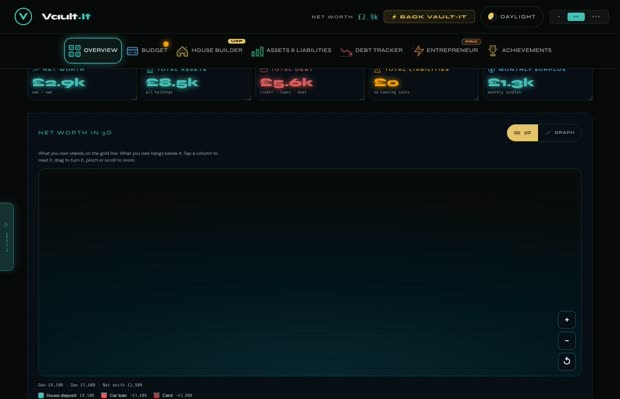
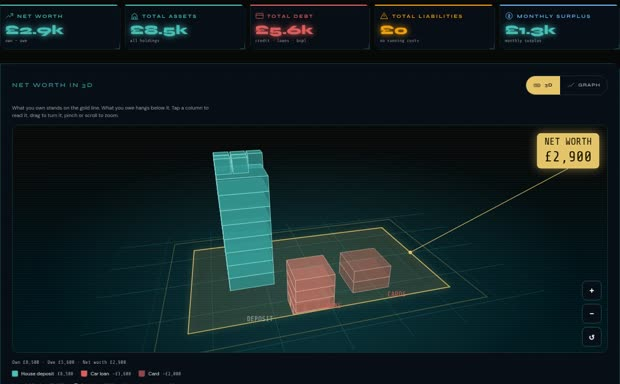
Queue: sign-up steps done (cda009e); 3D net worth first draw started
Claude-Session: https://claude.ai/code/session_01KoffvxK72zopaHpCU8QbNX

diff --git a/landing.html b/landing.html
@@ -213,6 +213,14 @@ section .lead{color:var(--muted);max-width:56ch;margin-bottom:26px}
 .num{display:inline-grid;place-items:center;width:34px;height:34px;border-radius:50%;border:1.5px solid var(--gold);color:var(--gold);font-family:var(--font-mono);font-size:15px;margin-bottom:12px;background:var(--pillbg)}
 .shot{margin:16px 0 0;border:1px solid var(--line2);border-radius:var(--r-tile);overflow:hidden;background:var(--stage-bg)}
 .shot img{display:block;width:100%;height:auto}
+/* "How it works" steps: a small real screen each (owner, 31 Oct); step 2 carries the brand icons, pulsing gently */
+.step-img{position:relative}
+.step-icons{position:absolute;left:8px;right:8px;bottom:10px;display:flex;justify-content:center;gap:10px;pointer-events:none}
+.step-icons .si{width:38px;height:38px;display:grid;place-items:center;border-radius:10px;color:var(--c);background:rgb(5 16 27 / .78);border:1px solid color-mix(in srgb,var(--c) 55%,transparent);box-shadow:0 0 0 0 color-mix(in srgb,var(--c) 45%,transparent);animation:siPulse 2.4s ease-in-out var(--d) infinite}
+.step-icons svg{width:22px;height:22px}
+.step-cap{font-family:var(--font-mono);font-size:11px;letter-spacing:.08em;color:var(--muted);text-align:center;padding:8px 6px;border-top:1px solid var(--line2)}
+@keyframes siPulse{0%,100%{transform:scale(1);box-shadow:0 0 0 0 color-mix(in srgb,var(--c) 40%,transparent)}50%{transform:scale(1.08);box-shadow:0 0 0 6px color-mix(in srgb,var(--c) 0%,transparent)}}
+@media (prefers-reduced-motion:reduce){.step-icons .si{animation:none!important}}
 ul.ticks{list-style:none;padding:0;margin:0;display:grid;gap:10px}
 ul.ticks li{padding-left:28px;position:relative;color:var(--muted)}
 ul.ticks li strong{color:var(--text)}
@@ -236,6 +244,7 @@ footer .links{display:flex;flex-wrap:wrap;gap:16px;margin-top:10px}
 </style>
 </head>
 <body>
+<svg width="0" height="0" style="position:absolute" aria-hidden="true" focusable="false"><symbol id="vi-net-worth" viewBox="0 0 24 24"><g fill="none" stroke="currentColor" stroke-width="1.1" stroke-linecap="round" stroke-linejoin="round" style="stroke-width:var(--vi-sw,1.1)"><path d='M3 17 9 11l4 4 8-9'/><path d='M15 6h6v6'/></g><g fill="none" stroke="currentColor" stroke-width=".7" stroke-linecap="round" stroke-linejoin="round" opacity=".6" style="stroke-width:calc(var(--vi-sw,1.1) * .64)"><path d="M3 21h18" stroke-dasharray="1 2.2"/><circle cx="9" cy="11" r=".9"/><circle cx="13" cy="15" r=".9"/></g></symbol><symbol id="vi-budget" viewBox="0 0 24 24"><g fill="currentColor" fill-opacity=".16" stroke="none"><g transform='scale(1.5)'><rect x='1.5' y='3.5' width='13' height='9.5' rx='1.6'/></g></g><g fill="none" stroke="currentColor" stroke-width="1.1" stroke-linecap="round" stroke-linejoin="round" style="stroke-width:var(--vi-sw,1.1)"><g transform='scale(1.5)' style='stroke-width:calc(var(--vi-sw,1.1) / 1.5)'><rect x='1.5' y='3.5' width='13' height='9.5' rx='1.6'/><path d='M1.5 6.5h13'/><path d='M10.6 9.8h1.9'/></g></g><g fill="none" stroke="currentColor" stroke-width=".7" stroke-linecap="round" stroke-linejoin="round" opacity=".6" style="stroke-width:calc(var(--vi-sw,1.1) * .64)"><path d="M4 14.5h5M4 16.8h3"/><circle cx="18.2" cy="14.7" r=".9"/></g></symbol><symbol id="vi-debt-tracker" viewBox="0 0 24 24"><g fill="none" stroke="currentColor" stroke-width="1.1" stroke-linecap="round" stroke-linejoin="round" style="stroke-width:var(--vi-sw,1.1)"><g transform='scale(1.5)' style='stroke-width:calc(var(--vi-sw,1.1) / 1.5)'><polyline points='1,4.5 5,9.5 9,7 15,13'/><polyline points='11.5,13 15,13 15,9.5'/></g></g><g fill="none" stroke="currentColor" stroke-width=".7" stroke-linecap="round" stroke-linejoin="round" opacity=".6" style="stroke-width:calc(var(--vi-sw,1.1) * .64)"><path d="M1.5 22.5h21"/><path d="M1.5 12h21" stroke-dasharray="1 2.2"/></g></symbol><symbol id="vi-trend-base" viewBox="0 0 24 24"><g fill="currentColor" fill-opacity=".16" stroke="none"><path d='M4 16l5-5 4 3 7-8v14.5H4z'/></g><g fill="none" stroke="currentColor" stroke-width="1.1" stroke-linecap="round" stroke-linejoin="round" style="stroke-width:var(--vi-sw,1.1)"><path d='M3 20.5h18'/><path d='M4 16l5-5 4 3 7-8'/><path d='M15 6h5v5'/></g></symbol></svg>
 <a class="skip" href="#join">Skip to the sign-up form</a>
 <header class="hdr"><div class="wrap">
   <a class="lockup" href="./" aria-label="Vault-It, top of page">
@@ -323,10 +332,19 @@ footer .links{display:flex;flex-wrap:wrap;gap:16px;margin-top:10px}
   <h2>How it works</h2>
   <p class="lead">Set up in a few minutes. Real screens from the app, shown with sample figures.</p>
   <div class="grid g3">
-    <div class="card"><div class="num">1</div><h3>Add your numbers</h3><p>Income, spending, debts, savings and what you own. You type them in, so nothing is connected to your bank.</p></div>
-    <div class="card"><div class="num">2</div><h3>See the whole picture</h3><p>Net worth over time, where every pound of income goes, a debt payoff plan (snowball or avalanche) and the next step on your roadmap.</p></div>
+    <div class="card"><div class="num">1</div><h3>Add your numbers</h3><p>Income, spending, debts, savings and what you own. You type them in, so nothing is connected to your bank.</p>
+      <figure class="shot step-shot"><img src="img/step-1-numbers.jpg" width="620" height="399" alt="The Budget tab: income and spending lines sorted into committed, variable, savings and investment groups" loading="lazy" /></figure></div>
+    <div class="card"><div class="num">2</div><h3>See the whole picture</h3><p>Net worth over time, where every pound of income goes, a debt payoff plan (snowball or avalanche) and the next step on your roadmap.</p>
+      <figure class="shot step-shot step-2"><div class="step-img"><img src="img/step-2-picture.jpg" width="620" height="384" alt="The Overview: net worth, assets, debt, liabilities and monthly surplus, above the net worth in 3D scene" loading="lazy" />
+        <div class="step-icons" aria-hidden="true">
+          <span class="si" style="--c:var(--gold);--d:0s"><svg viewBox="0 0 24 24"><use href="#vi-net-worth"/></svg></span>
+          <span class="si" style="--c:var(--teal);--d:.6s"><svg viewBox="0 0 24 24"><use href="#vi-budget"/></svg></span>
+          <span class="si" style="--c:var(--red);--d:1.2s"><svg viewBox="0 0 24 24"><use href="#vi-debt-tracker"/></svg></span>
+          <span class="si" style="--c:var(--green);--d:1.8s"><svg viewBox="0 0 24 24"><use href="#vi-trend-base"/></svg></span>
+        </div></div>
+        <figcaption class="step-cap">Net worth · Budget · Debt plan · Roadmap</figcaption></figure></div>
     <div class="card"><div class="num">3</div><h3>Build the house</h3><p>Pick a house and a deposit target. It rises as you save, and fills in as you pay the mortgage down.</p>
-      <figure class="shot"><img src="img/house-built.jpg" width="620" height="540" alt="The finished 3D Victorian terraced house in the Vault-It house builder" loading="lazy" /></figure></div>
+      <figure class="shot step-shot"><img src="img/step-3-house.jpg" width="620" height="412" alt="The House Builder: a Victorian terrace part-built in teal bricks, with the row being laid marked in gold" loading="lazy" /></figure></div>
   </div>
 </div></section>
 

diff --git a/tests/test_site.js b/tests/test_site.js
@@ -8,7 +8,7 @@ const ROOT = path.join(__dirname, '..'), DIST = fs.mkdtempSync(path.join(require
   cp.execFileSync('node', [path.join(ROOT, 'tools', 'build_site.js')], { env: { ...process.env, WORKERS_CI_COMMIT_SHA: 'abc123', SITE_OUT: DIST }, stdio: ['ignore', 'ignore', 'inherit'] });
   const tree = (d) => fs.readdirSync(path.join(DIST, d), { recursive: true }).map(String).filter((f) => fs.statSync(path.join(DIST, d, f)).isFile()).sort();
   ok(JSON.stringify(tree('app')) === JSON.stringify(['404.html', 'index.html', 'logo.png', 'manifest.webmanifest', 'og-image.png', 'recover.html', 'robots.txt', 'sw.js', 'version.json']), 'app site contains only the app, the recovery page, the manifest and service worker, logo, share image, robots, 404 and version: ' + tree('app'));
-  ok(JSON.stringify(tree('landing')) === JSON.stringify(['404.html', 'brand-hero.js', 'img/founder.jpg', 'img/house-built.jpg', 'index.html', 'og-image.png', 'robots.txt', 'sign-up.html', 'sign-up/confirm.html', 'sign-up/style.css', 'sign-up/thanks.html', 'sign-up/unsubscribe.html']), 'landing site contains only the sign-up page, its follow-on pages and images, share image, robots and 404: ' + tree('landing'));
+  ok(JSON.stringify(tree('landing')) === JSON.stringify(['404.html', 'brand-hero.js', 'img/founder.jpg', 'img/step-1-numbers.jpg', 'img/step-2-picture.jpg', 'img/step-3-house.jpg', 'index.html', 'og-image.png', 'robots.txt', 'sign-up.html', 'sign-up/confirm.html', 'sign-up/style.css', 'sign-up/thanks.html', 'sign-up/unsubscribe.html']), 'landing site contains only the sign-up page, its follow-on pages and images, share image, robots and 404: ' + tree('landing'));
   ok(fs.readdirSync(DIST).sort().join() === 'app,landing', 'nothing else is published (no tests, docs, notes or function code)');
   ok(JSON.parse(fs.readFileSync(path.join(DIST, 'app', 'version.json'), 'utf8')).sha === 'abc123', 'version.json records the commit being built');
   ok(/<title>Vault/i.test(fs.readFileSync(path.join(DIST, 'app', 'index.html'), 'utf8')) && /Join the beta list/.test(fs.readFileSync(path.join(DIST, 'landing', 'index.html'), 'utf8')), 'index pages are the right ones');

diff --git a/tools/build_site.js b/tools/build_site.js
@@ -8,7 +8,7 @@ const ROOT = path.join(__dirname, '..'), OUT = process.env.SITE_OUT ? path.resol
 const SITE = {
   app:     [['index.html', 'index.html'], ['recover.html', 'recover.html'], ['sw.js', 'sw.js'], ['manifest.webmanifest', 'manifest.webmanifest'], ['logo.png', 'logo.png'], ['og-image.png', 'og-image.png']],
   landing: [['landing.html', 'index.html'], ['landing.html', 'sign-up.html'], ['og-image.png', 'og-image.png'],
-            ['site/brand-hero.js', 'brand-hero.js'], ['site/house-built.jpg', 'img/house-built.jpg'], ['site/founder.jpg', 'img/founder.jpg'],
+            ['site/brand-hero.js', 'brand-hero.js'], ['site/step-1-numbers.jpg', 'img/step-1-numbers.jpg'], ['site/step-2-picture.jpg', 'img/step-2-picture.jpg'], ['site/step-3-house.jpg', 'img/step-3-house.jpg'], ['site/founder.jpg', 'img/founder.jpg'],
             ['site/sign-up/thanks.html', 'sign-up/thanks.html'], ['site/sign-up/confirm.html', 'sign-up/confirm.html'],
             ['site/sign-up/unsubscribe.html', 'sign-up/unsubscribe.html'], ['site/sign-up/style.css', 'sign-up/style.css']],
 };

diff --git a/docs/QUEUE.md b/docs/QUEUE.md
@@ -9,8 +9,7 @@ The single list of instructed work. Every session reads it at start and before e
 
 ## Open
 
-- [~] Sign-up page steps (owner, 31 Oct 09:56, from phone screenshots): in the "how it works" steps, drop the big 3D house under step 3 and give steps 1, 2 and 3 a small screenshot each, relevant to its subject; step 2's screenshot carries the relevant brand-book iconography with subtle pulsing animations (reduced motion respected)
-- [ ] 3D net worth first draw (owner, 31 Oct, live defect): the main Overview 3D net worth scene only populates after the 3D view is toggled off and back on; it must draw on first show
+- [~] 3D net worth first draw (owner, 31 Oct, live defect): the main Overview 3D net worth scene only populates after the 3D view is toggled off and back on; it must draw on first show
 - [ ] Tablet and fold navigation (owner, 31 Oct): tablet and folding-phone widths keep the labelled menu bar at the top; only the phone view has the icon bar at the bottom
 - [ ] House builder style exactly as the brand book (owner, 31 Oct, 11:30): make the house builder's look and animations match the brand book the owner attached (`brand/vault-it-brand-book-31oct.html`, a newer 170 KB version that differs from `brand/vault-it-brand-book.html`) and the screen recording of the animations (frames every 2 s in `brand/reference/house-animation/`; the original mp4 was attached in the 31 Oct session and is not in the repo). Audit the differences first and report before changing code; the level rules and flag defaults stand
 - [ ] Secure paid gateway (owner, 31 Oct: "yes we need to set up the paid gateway securely"): paid status set by a Stripe webhook (checkout.session.completed with the account id as client_reference_id) into `profiles` through a new edge function, the client's write access to `is_pioneer` / `is_founder` revoked by migration, plan and tester columns on `profiles`, the app reading paid status from the profile only; needs the webhook signing secret in Supabase secrets and the owner's yes before the migration and function go to production
@@ -29,6 +28,7 @@ The single list of instructed work. Every session reads it at start and before e
 
 ## Done (30 Oct 2026)
 
+- [x] Sign-up page steps (owner, 31 Oct): small app screenshots for steps 1 to 3, four brand icons pulsing on step 2 (reduced motion respected), the big house removed. Commit cda009e on `brand-rollout`, not released.
 - [x] Tester welcome message (31 Oct): Pete's note shown once after the welcome flow for beta accounts, first sentence in the 30-day form ("Your first 30 days are free, no card needed."), Let's go and a mail link. Commit 02b6918 on `brand-rollout`, not released.
 - [x] Simplified / Advanced view (owner, 31 Oct): synced switch in Settings and the welcome step (new accounts Simplified, existing Advanced), the section 8 tile list, Overview achievements card, Budget Sankey on top with every section folded, Sankey flow animation, phone KPIs in two rows. Budget "sections" read as the six spending and saving groups; the income list stays open so income can be added. Commit 96bd33e on `brand-rollout`, not released.
 - [x] Tier gates (31 Oct, decision 10): caps gone; design tools (upload, AI model) need a paid plan, trial included; every preset house for everyone; ended accounts see everything read-only; plan recorded from the Stripe return; AI reader allowance line; four more read-only guards. Commit 4254a03 on `brand-rollout`, not released.
